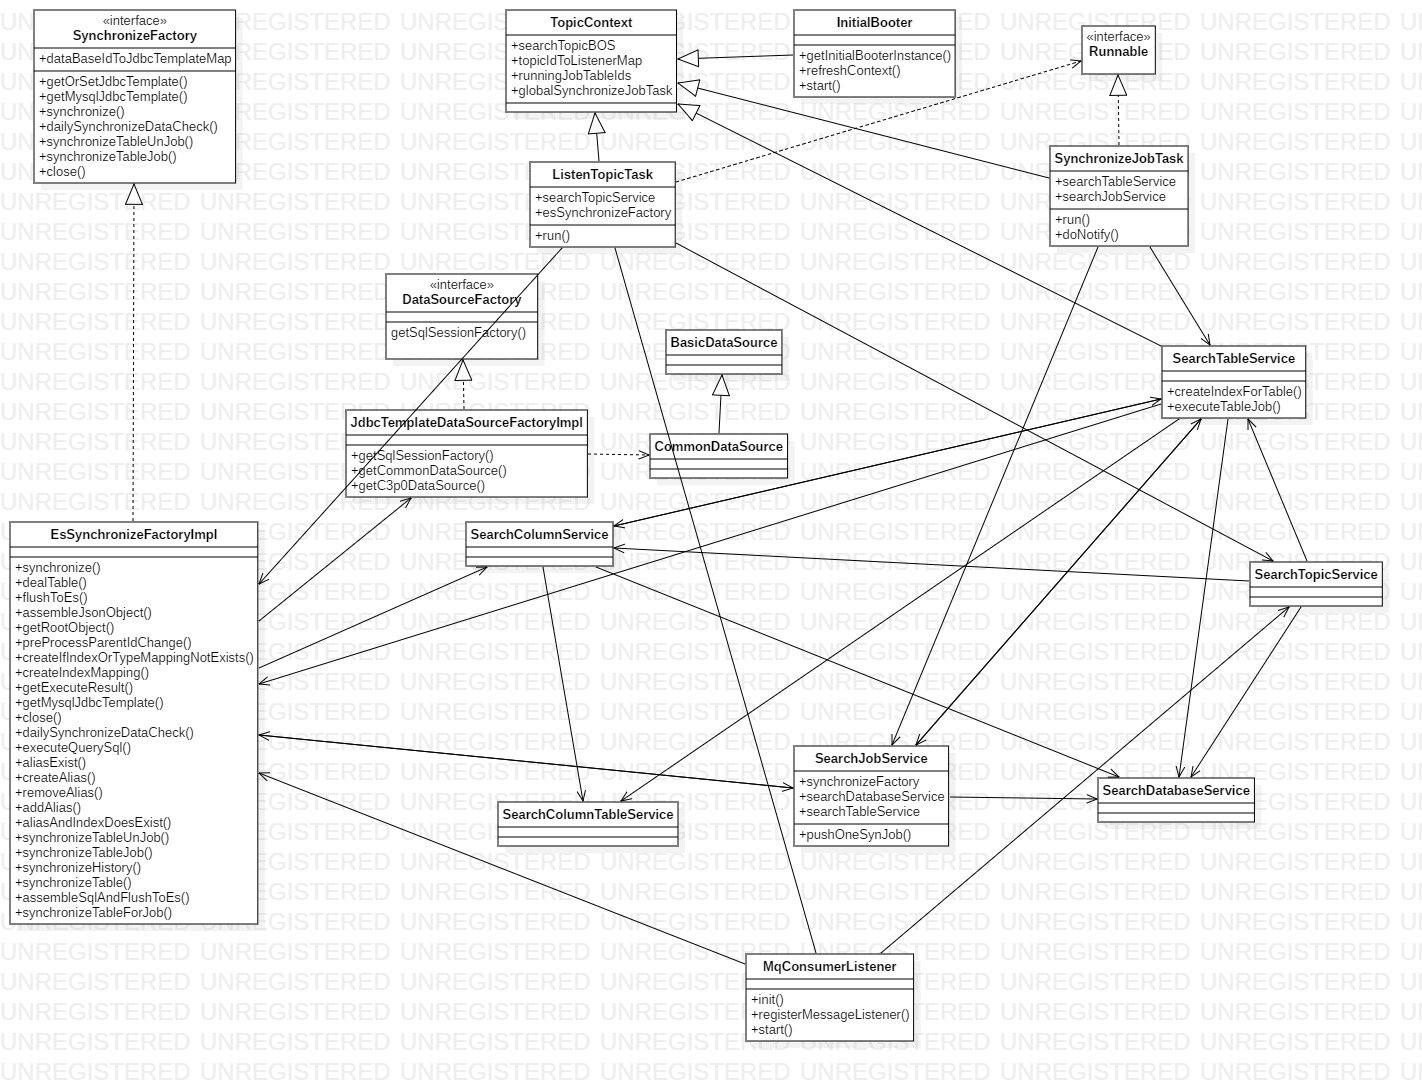
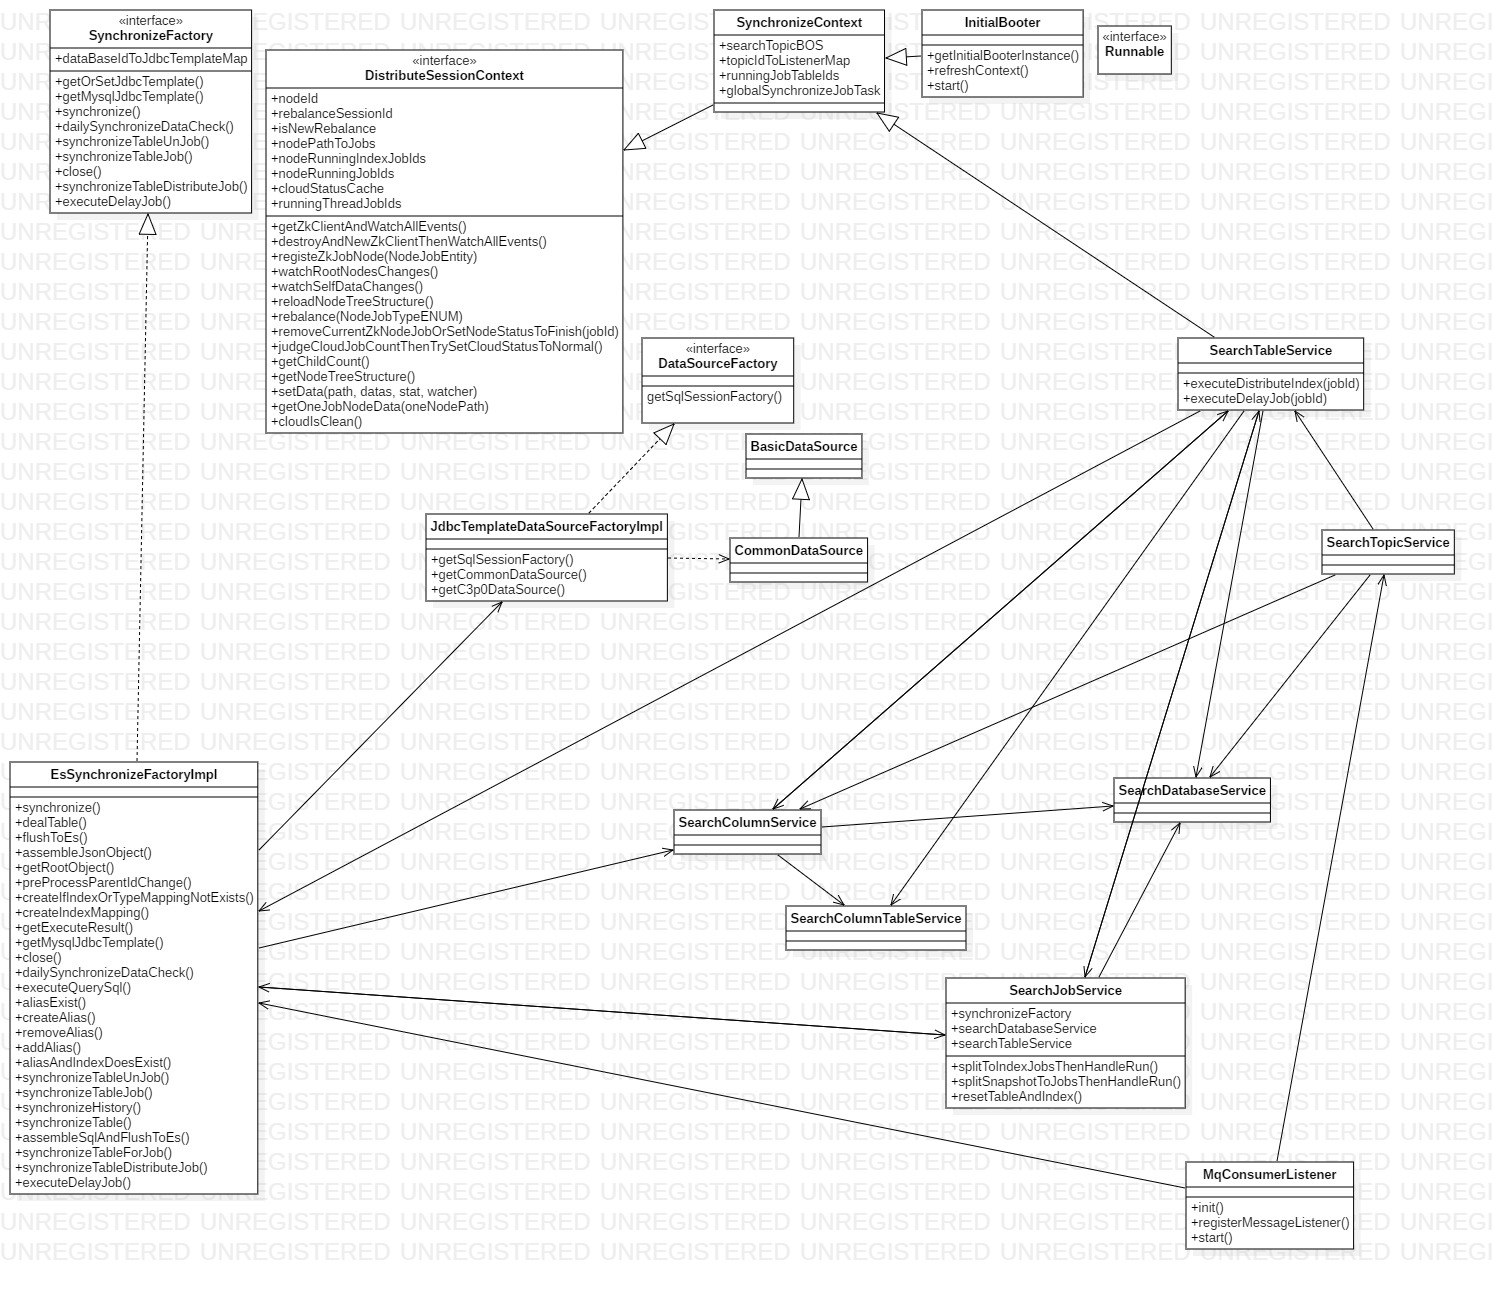
picture fix

diff --git a/source/_posts/elasticsearch/elasticsearch_center.md b/source/_posts/elasticsearch/elasticsearch_center.md
@@ -154,7 +154,7 @@ categories: cloud
 
 #### 整体架构图
   ![new_structure.png](new_structure.png)
-  首先解释下searchContext，searchContext是这个上下文，里边存储了当前可以同步的主题，数据库，表，以及正在changing的tableId，还有同步线程的引用等等，ListenTopicTask会每隔三分钟刷新一次上下文；
+  每个节点都有一个searchContext，首先解释下searchContext，searchContext是这个上下文，里边存储了当前可以同步的主题，数据库，表，以及正在changing的tableId，还有同步线程的引用等等，ListenTopicTask会每隔三分钟刷新一次上下文；
   整个轮子有2条主线，以searchContext为中心，searchContext下面是索引创建流程，上面是消息监听流程（索引已经创建完毕，mysql数据变化监听，然后将变化推送到es集群）；
   索引创建流程将索引创建完毕之后，会更新上下文，然后消息监听流程会使用更新之后的上下文。
 #### 索引创建流程
